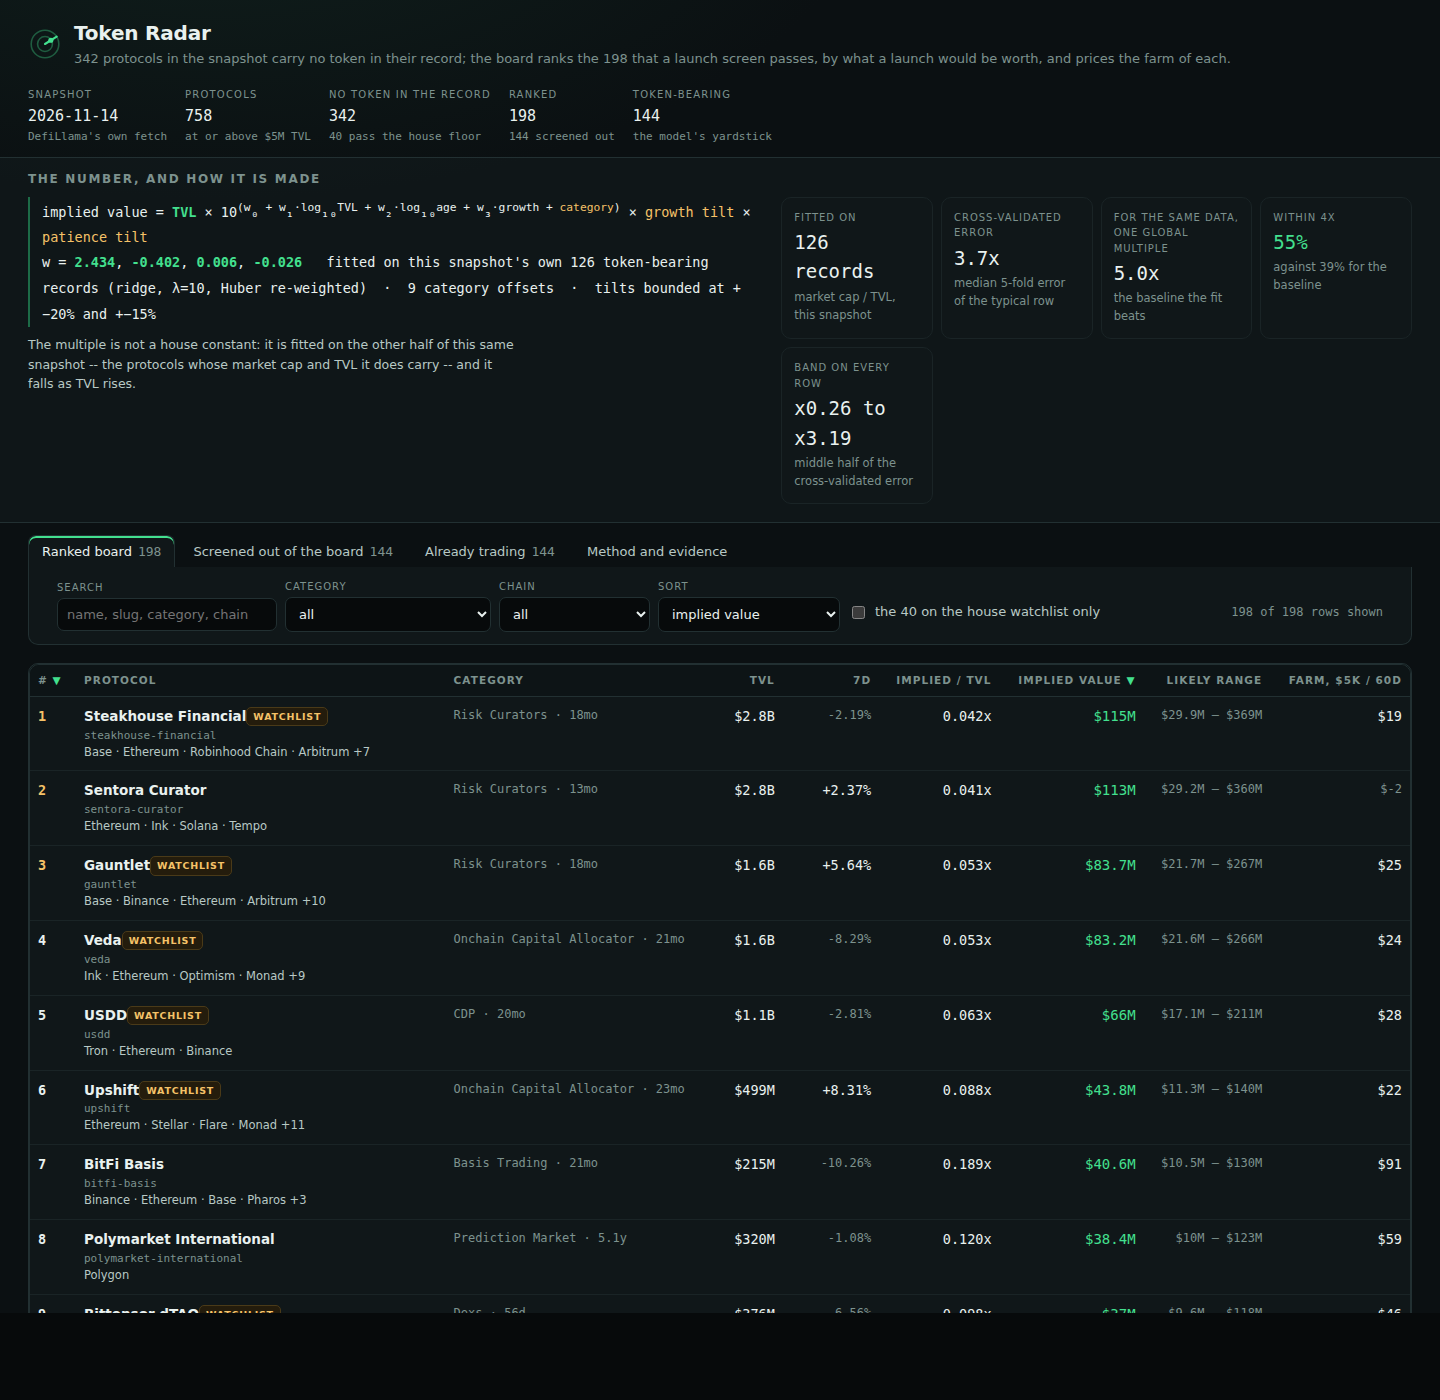
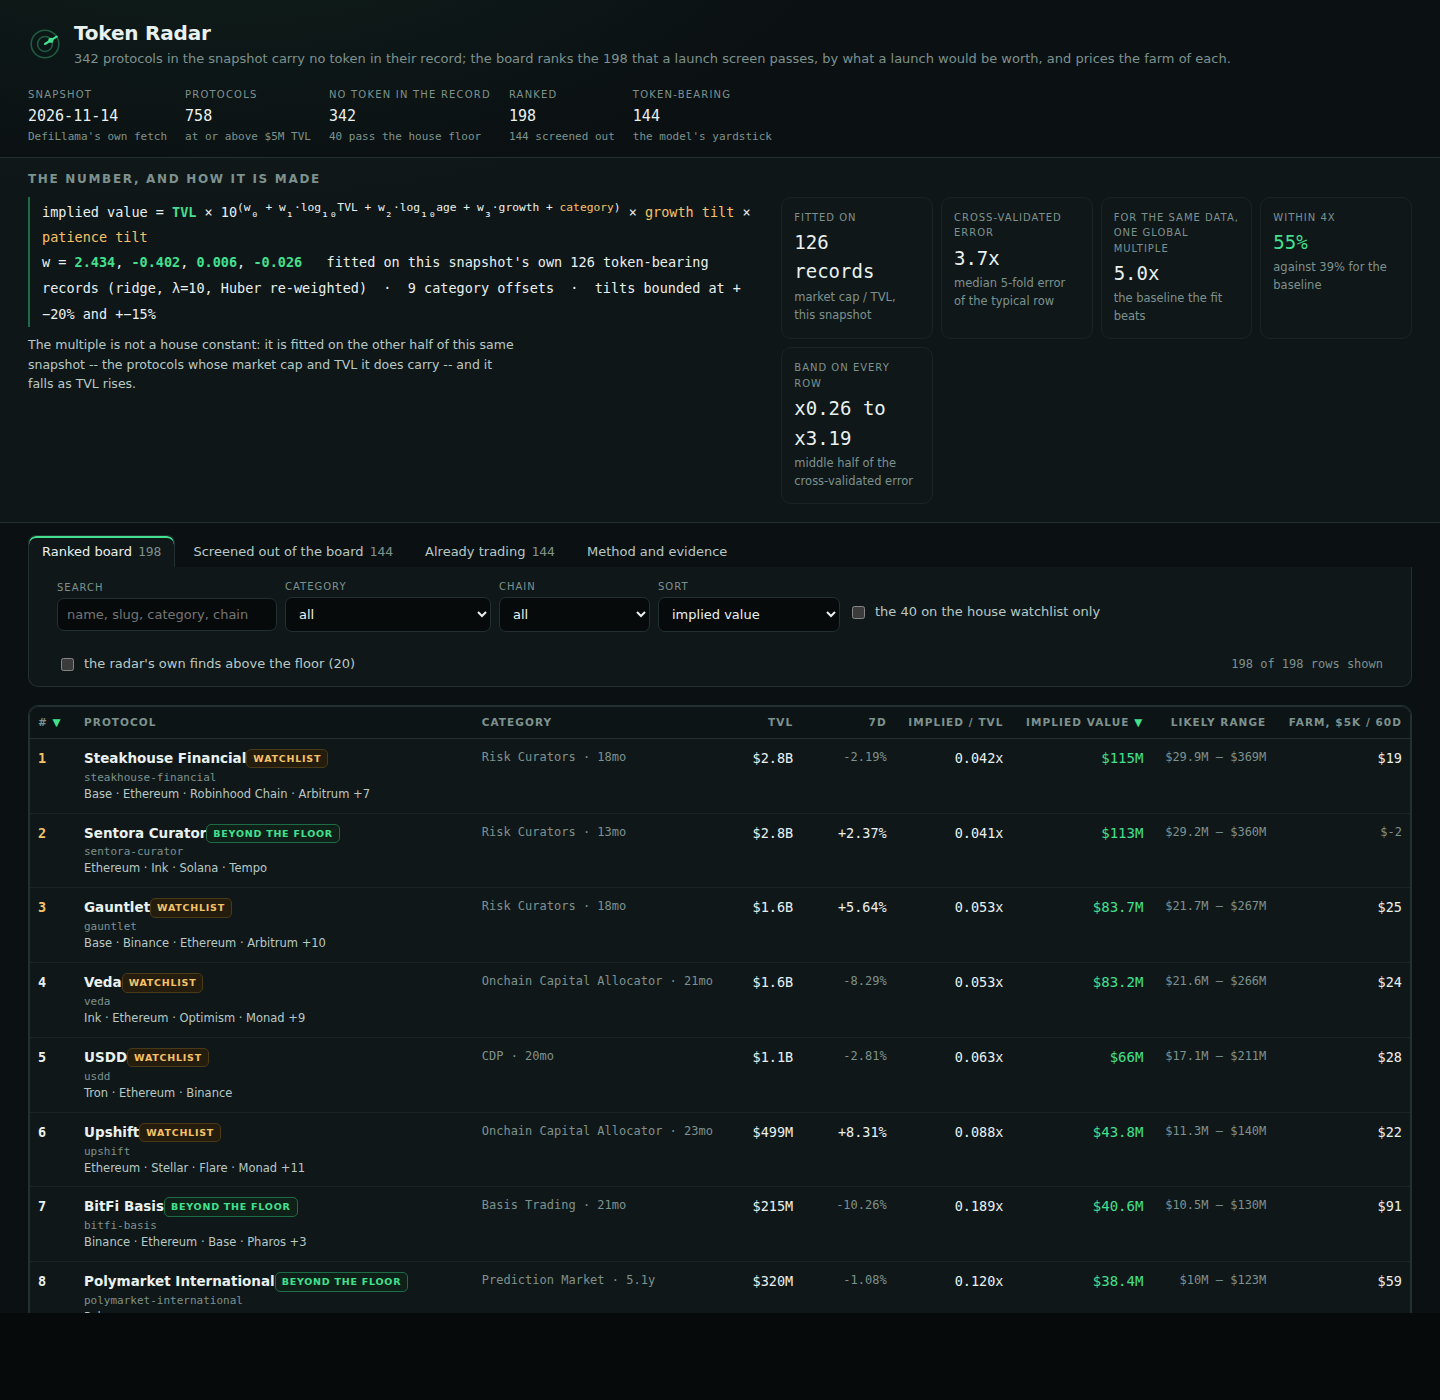
Radar: mark the rows above the house floor that its watchlist leaves out, and refresh the numbers

diff --git a/dashboard/app.js b/dashboard/app.js
@@ -82,6 +82,7 @@
     sort: params.get('sort') || 'implied',
     dir: params.get('dir') || 'desc',
     watchOnly: params.get('tier') === 'watchlist',
+    beyondOnly: params.get('tier') === 'beyond',
     open: {},
     slug: params.get('slug') || null
   };
@@ -200,6 +201,9 @@
       append(box, el('label', { class: 'check' },
         el('input', { type: 'checkbox', checked: state.watchOnly ? 'checked' : null, onchange: function (e) { state.watchOnly = e.target.checked; renderView(); } }),
         'the ' + R.watchlist_size + ' on the house watchlist only'));
+      append(box, el('label', { class: 'check' },
+        el('input', { type: 'checkbox', checked: state.beyondOnly ? 'checked' : null, onchange: function (e) { state.beyondOnly = e.target.checked; renderView(); } }),
+        'the radar\'s own finds above the floor (' + R.rows.filter(function (r) { return r.beyond_floor; }).length + ')'));
     }
     append(box, el('div', { class: 'spacer' }));
     append(box, el('div', { class: 'count', id: 'count' }));
@@ -209,6 +213,7 @@
   function filtered() {
     var out = R.rows.filter(function (r) {
       if (state.watchOnly && !r.on_watchlist) return false;
+      if (state.beyondOnly && !r.beyond_floor) return false;
       if (state.category !== 'all' && (r.category === null ? 'Uncategorized' : r.category) !== state.category) return false;
       if (state.chain !== 'all' && r.chains.indexOf(state.chain) < 0) return false;
       if (state.q) {
@@ -280,7 +285,8 @@
         el('td', { class: 'rank' }, el('b', { text: String(r.rank) })),
         el('td', { class: 'name' },
           el('b', { text: r.name }), r.on_watchlist ? el('span', { class: 'pill wl', text: 'watchlist' }) : null,
-          r.ev_rank <= 5 ? el('span', { class: 'pill ev', text: 'best farm #' + r.ev_rank }) : null,
+          r.beyond_floor ? el('span', { class: 'pill ev', text: 'beyond the floor' }) : null,
+          r.ev_rank <= 5 ? el('span', { class: 'pill', text: 'best farm #' + r.ev_rank }) : null,
           el('div', { class: 'slug', text: r.slug }),
           el('div', { class: 'chains', text: r.chains.slice(0, 4).join(' · ') + (r.chains.length > 4 ? ' +' + (r.chains.length - 4) : '') })),
         el('td', { class: 'mut', text: (r.category || '—') + (r.age_days === null ? '' : ' · ' + age(r.age_days)) }),
@@ -297,8 +303,10 @@
     var view = el('div', { class: 'view' }, table,
       el('div', { class: 'legend', html:
         'Sorted by <b>' + state.sort + '</b> ' + (state.dir === 'asc' ? 'ascending' : 'descending') +
-        '; the # column keeps each row\'s rank by <b>implied value</b>, which is a different order. Click a row for its farm plan and ' +
-        'the arithmetic behind its value. <b>implied value</b> is this board\'s own claim, from the snapshot\'s figures and no other ' +
+        '; the # column keeps each row\'s rank by <b>implied value</b>, which is a different order. The ' +
+        R.rows.filter(function (r) { return r.beyond_floor; }).length + ' rows marked <b>beyond the floor</b> are above the house\'s own ' +
+        'floor of ' + usd(R.floor_usd) + ' but not on its watchlist: the radar\'s own finds, which the list is a floor under and never a ceiling over. ' +
+        'Click a row for its farm plan and the arithmetic behind its value. <b>implied value</b> is this board\'s own claim, from the snapshot\'s figures and no other ' +
         'source; <b>likely range</b> is the middle half of the model\'s cross-validated error, so roughly one row in four falls outside it. ' +
         '<b>farm</b> is one wallet of ' + usd(R.farm_assumption.budget_usd) + ' held ' + R.farm_assumption.days_held +
         ' days against a ' + R.farm_assumption.campaign_days + '-day campaign worth ' +
@@ -504,7 +512,9 @@
     var count = document.getElementById('count');
     if (count) {
       count.textContent = state.tab === 'board'
-        ? (state.watchOnly ? R.watchlist_size + ' on the watchlist (all of them)' : filtered().length + ' of ' + R.rows.length + ' rows shown')
+        ? (state.watchOnly ? R.watchlist_size + ' on the watchlist (all of them)'
+          : state.beyondOnly ? filtered().length + ' of the ' + R.rows.filter(function (r) { return r.beyond_floor; }).length + ' beyond the floor'
+          : filtered().length + ' of ' + R.rows.length + ' rows shown')
         : state.tab === 'screened' ? R.screened.length + ' records' : state.tab === 'live' ? R.live.length + ' protocols' : '';
     }
   }

diff --git a/lib/model.ts b/lib/model.ts
@@ -57,6 +57,8 @@ export interface RadarRow {
   change_7d: number | null;
   age_days: number | null;
   on_watchlist: boolean;
+  /** Above the house's own floor but not on its watchlist: a launch the floor never named. */
+  beyond_floor: boolean;
   implied_value_usd: number;
   band_lo_usd: number;
   band_hi_usd: number;
@@ -656,6 +658,7 @@ export function buildRadar(snapshot: Snapshot): Radar {
     const row: Omit<RadarRow, 'rank' | 'ev_rank'> = {
       slug: p.slug, name: p.name, category: p.category, chains: p.chains, tvl_usd: p.tvl_usd,
       change_7d: p.change_7d, age_days: age, on_watchlist: watch.has(p.slug),
+      beyond_floor: !watch.has(p.slug) && p.tvl_usd >= snapshot.floor_usd,
       implied_value_usd: implied,
       band_lo_usd: Math.max(1, Math.round(implied * 10 ** calibration.cv.band_lo)),
       band_hi_usd: Math.max(2, Math.round(implied * 10 ** calibration.cv.band_hi)),

diff --git a/README.md b/README.md
@@ -56,7 +56,10 @@ floor that the watchlist itself leaves out, and 138 below it — with:
   and listing day, and from the protocol's category;
 - what one wallet of $5,000 held 60 days actually earns after gas, which is a different ranking from the
   implied value: the board's rank 1 is worth $19 to that wallet, while the best farm on the board
-  (MetalX Swap) is worth $330. Both orderings are one click apart on the page.
+  (MetalX Swap) is worth $330. Both orderings are one click apart on the page;
+- a **beyond the floor** marker with its own filter on the 20 rows above the house's own floor that its
+  watchlist leaves out (Sentora Curator, BitFi Basis, Polymarket International, OnRe, Resolv …): the list is
+  a floor under the board and never a ceiling over it.
 
 The dashboard is a static page with no framework and no network: the board (sortable and filterable by
 search, category, chain and watchlist), a protocol's own view, the screened records, the 144 token-bearing
@@ -81,7 +84,7 @@ write the same bytes. To re-render the screenshots from the page's own files, ru
 | --- | --- |
 | `main.ts` | the entry: reads the snapshot, writes the board, the page's data, the dashboard and the dossier |
 | `lib/model.ts` | the screen, the fit, the cross-validation, the farm model and the farm plans |
-| `dashboard/` | `index.html`, `app.css`, `app.js`: the page, 49 KB of source, no dependency and no network |
+|  `dashboard/` | `index.html`, `app.css`, `app.js`: x, no dependency and no network |
 | `screenshots/` | the three views the judge is shown: the board, a protocol's own view, the filtered board |
 | `vendor/makefun-board.ts` | the kit's dossier library, byte for byte, as the rules ask |
 | `tools/verify-gate.ts` | a local stand-in for the sealed seven-row gate, since the kit ships no grader |
@@ -93,18 +96,20 @@ The kit ships no local grader for this competition, so `tools/verify-gate.ts` re
 rules name and runs them on what `main.ts` wrote. Its last run:
 
 ```
-pass  dashboard_files  3 files, 49711 bytes, no network address
+pass  dashboard_files  3 files, 50712 bytes, no network address
 pass  board_file       198 rows, every slug in the snapshot
 pass  sorted_by_value  ranks 1..N, values never rise
 pass  farm_steps       every row 3 to 12 steps of 20 to 600 characters
 pass  coverage         all 40 watchlist slugs ranked
 pass  screenshots      3 images, 1-board.png, 2-detail.png, 3-filtered.png
-pass  dossier_matches  1346176 bytes, byte for byte what buildDossier writes
+pass  dossier_matches  1348598 bytes, byte for byte what buildDossier writes
 7 passed, 0 failed
 ```
 
 Two independent runs into two fresh directories compare identical (`diff -r` over `board.json`, `data.js`,
-`dossier.json`, `dashboard/` and `screenshots/`), and the dossier is 1.28 MiB against the 1.5 MiB cap.
+`dossier.json`,  `dashboard/` and `screenshots/`), and the dossier is 1.29 MiB against the 1.5 MiB cap. The
+kit's own `makefun check` passes `competition_open`, `snapshot` (15 files, 1,100,063 bytes), `license_osi`
+(SPDX-License-Identifier: MIT) and `entrypoint` (main.ts, node22); the transcript rows are the submission's.
 
 ---
 
